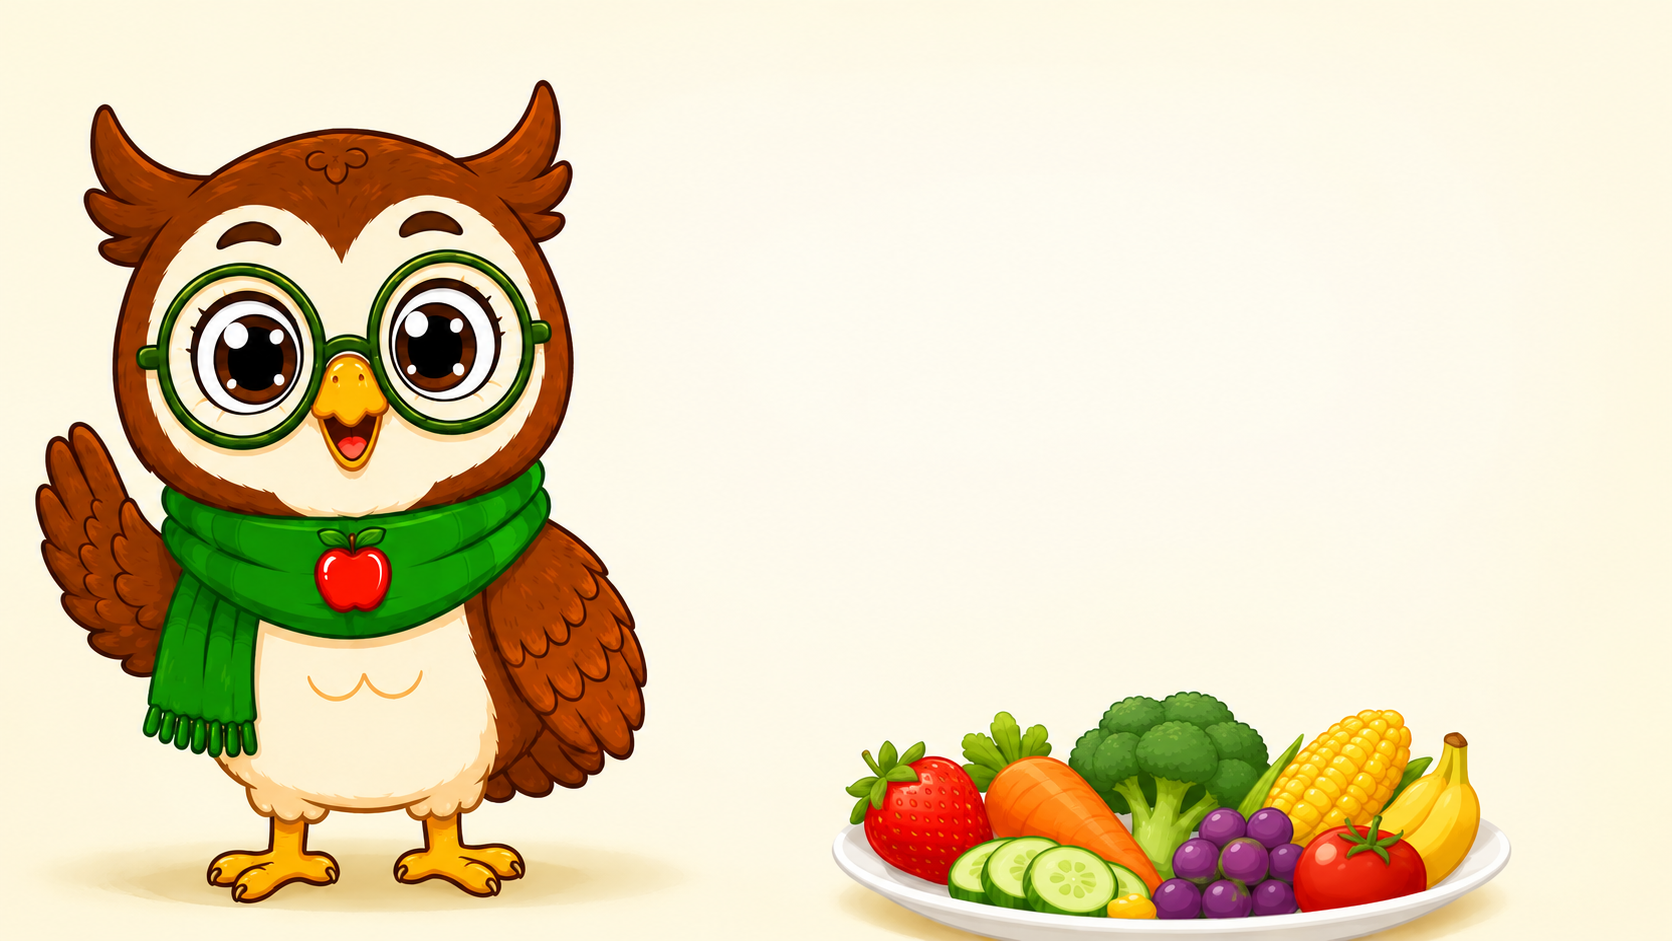
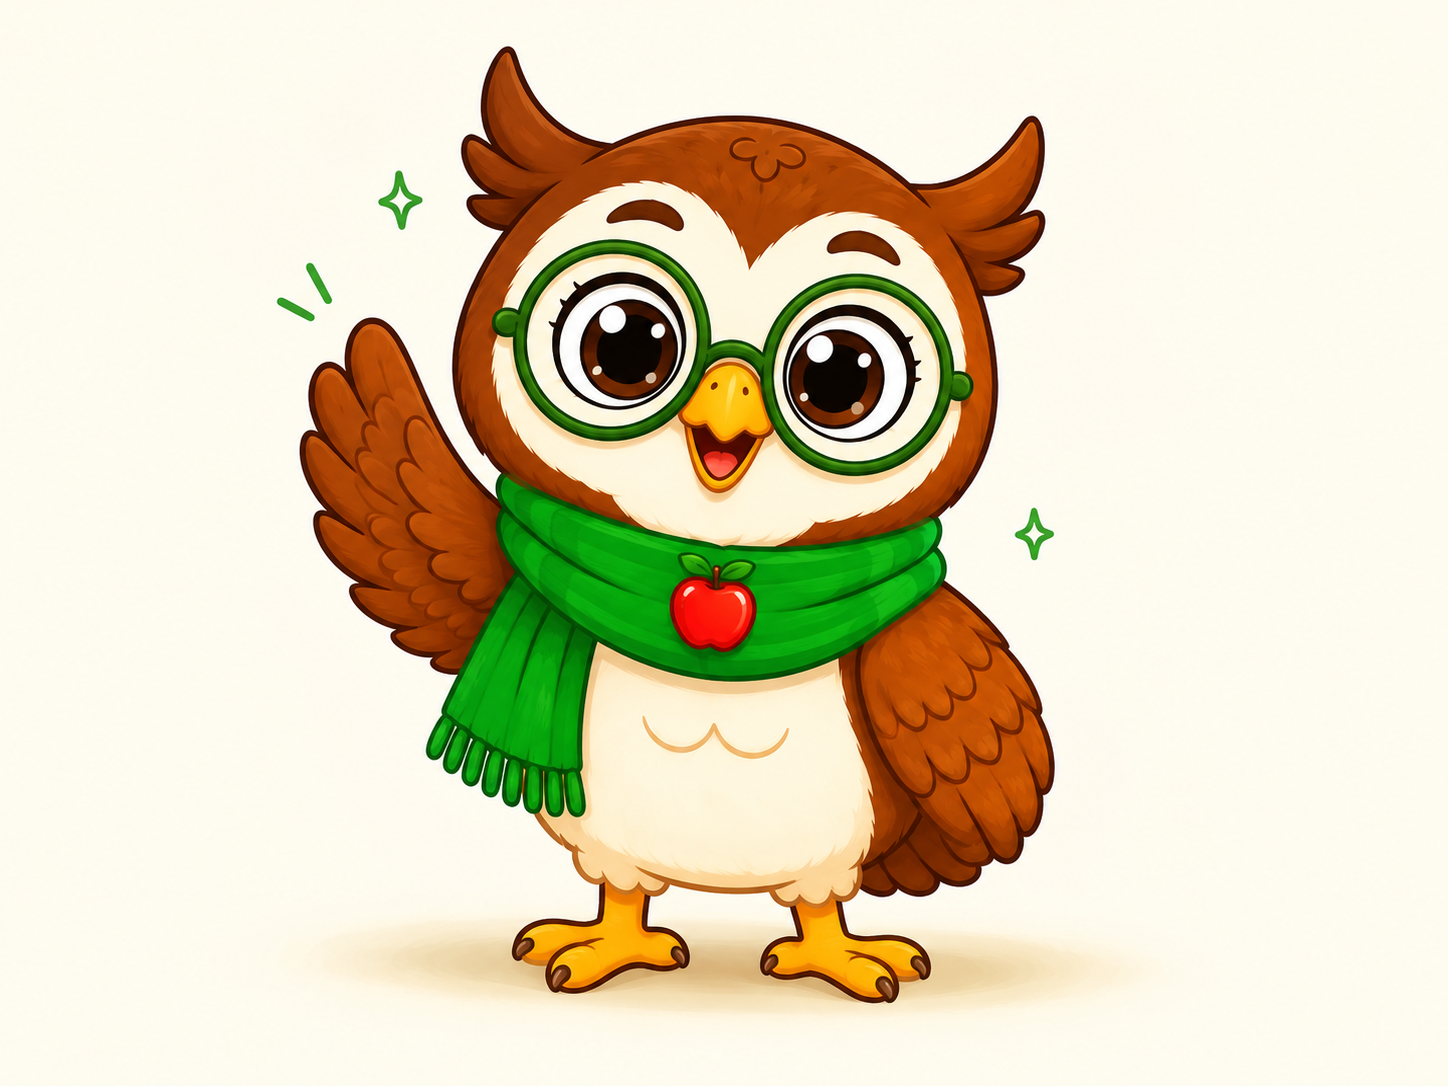
Home: Nutri section uses new mascot-only image, cleaner integration
Replaces public/images/nutri-hero.png (owl + plate) with the new final
mascot-only image, saved byte-for-byte as provided -- no regeneration,
no crop, no edits. Section background switched from bg-secondary/30 to
bg-background so it matches this page's own #FBF6EE override, nearly
identical to the new image's own cream background; dropped rounded-3xl
on the image so it blends into the section instead of sitting in a
boxed card.

Mobile-only compacting: smaller H2, lighter/smaller highlight pill,
shorter CTA button, tighter vertical gaps, and the "Cărți • Activități
• Jocuri..." line removed so the image sits close to the CTA. Desktop
layout, spacing, and scale are unchanged (still 2 columns, text left,
image right, generous white space, no card wrapper).

Claude-Session: https://claude.ai/code/session_01DSEq2dNsMu3kQkjZcvwz9Z

diff --git a/src/pages/Home.tsx b/src/pages/Home.tsx
@@ -291,30 +291,39 @@ export default function Home() {
       </section>
 
       {/* Nutri pentru copii -- moved to right after "Din răspunsuri, în
-          practică", intro copy replaced per this round's brief. Mascot
-          image untouched. */}
-      <section className="py-20 bg-secondary/30">
+          practică", intro copy replaced per this round's brief. Final round:
+          new mascot-only image (no plate/props), section background switched
+          from bg-secondary/30 to bg-background so it matches this page's own
+          --background override exactly (#FBF6EE, near-identical to the new
+          image's own cream background) and the image's edges dissolve into
+          the section instead of sitting in a visible box -- rounded-3xl and
+          any card/border/shadow treatment removed for the same reason.
+          Mobile-only compacting (smaller heading, lighter highlight pill,
+          shorter CTA, tighter gaps, the "Cărți • Activități..." line
+          dropped) via responsive classes; desktop keeps its original
+          spacing/scale untouched per the brief. */}
+      <section className="py-14 md:py-20 bg-background">
         <div className="container mx-auto px-4">
-          <div className="grid lg:grid-cols-[1fr_1.2fr] gap-10 lg:gap-8 items-center">
+          <div className="grid lg:grid-cols-[1fr_1.2fr] gap-4 lg:gap-8 items-center">
             <motion.div
               initial={{ opacity: 0, y: 20 }}
               whileInView={{ opacity: 1, y: 0 }}
               viewport={{ once: true }}
               transition={{ duration: 0.6 }}
             >
-              <span className="inline-flex items-center gap-2 text-xs font-semibold tracking-[0.16em] uppercase text-primary mb-4">
+              <span className="inline-flex items-center gap-2 text-xs font-semibold tracking-[0.16em] uppercase text-primary mb-3 md:mb-4">
                 <span className="inline-block w-4 h-px bg-primary" aria-hidden="true" />
                 {ro ? "Pentru cei mici" : "For little ones"}
               </span>
-              <h2 className="text-3xl md:text-4xl font-serif font-bold text-foreground mb-3 text-balance">
+              <h2 className="text-2xl md:text-4xl font-serif font-bold text-foreground leading-tight md:leading-normal mb-2 md:mb-3 text-balance">
                 {ro ? "Nutriția poate începe și prin joacă." : "Nutrition can start with play, too."}
               </h2>
-              <p className="text-base md:text-lg text-muted-foreground leading-relaxed mb-6">
+              <p className="text-base md:text-lg text-muted-foreground leading-relaxed mb-4 md:mb-6">
                 {ro
                   ? "Prin povești, jocuri și activități, copiii pot descoperi alimentele într-un mod curios, relaxat și potrivit vârstei lor."
                   : "Through stories, games, and activities, children can discover food in a curious, relaxed way that fits their age."}
               </p>
-              <div className="inline-flex items-center gap-2 rounded-full bg-primary/10 border border-primary/20 px-5 py-3 text-sm font-semibold text-primary mb-6">
+              <div className="inline-flex items-center gap-2 rounded-full bg-primary/10 px-3.5 py-2 md:px-5 md:py-3 text-xs md:text-sm font-semibold text-primary mb-4 md:mb-6">
                 <Sparkles className="w-4 h-4 shrink-0" />
                 {ro
                   ? "Fără presiune. Fără farfurii perfecte. Cu multă curiozitate."
@@ -323,17 +332,12 @@ export default function Home() {
               <div>
                 <Link
                   href="/nutri-pentru-copii"
-                  className="inline-flex items-center justify-center gap-2 h-[50px] lg:h-[52px] px-6 rounded-[13px] bg-primary hover:bg-primary/90 active:scale-[0.97] focus-visible:outline-none focus-visible:ring-2 focus-visible:ring-primary/50 text-primary-foreground font-semibold text-[15px] lg:text-base transition-all"
+                  className="inline-flex items-center justify-center gap-2 h-11 lg:h-[52px] px-6 rounded-[13px] bg-primary hover:bg-primary/90 active:scale-[0.97] focus-visible:outline-none focus-visible:ring-2 focus-visible:ring-primary/50 text-primary-foreground font-semibold text-[15px] lg:text-base transition-all"
                   data-testid="button-discover-nutri"
                 >
                   {ro ? "Descoperă lumea lui Nutri" : "Discover Nutri's world"}
                   <ArrowRight className="w-4 h-4" />
                 </Link>
-                <p className="text-xs text-muted-foreground mt-3">
-                  {ro
-                    ? "Cărți • Activități • Jocuri • Resurse pentru părinți"
-                    : "Books • Activities • Games • Resources for parents"}
-                </p>
               </div>
             </motion.div>
 
@@ -346,7 +350,7 @@ export default function Home() {
               <img
                 src="/images/nutri-hero.png"
                 alt={ro ? "Nutri, personajul Diet4Life pentru copii" : "Nutri, the Diet4Life character for kids"}
-                className="w-full h-auto rounded-3xl"
+                className="w-full h-auto"
               />
             </motion.div>
           </div>
